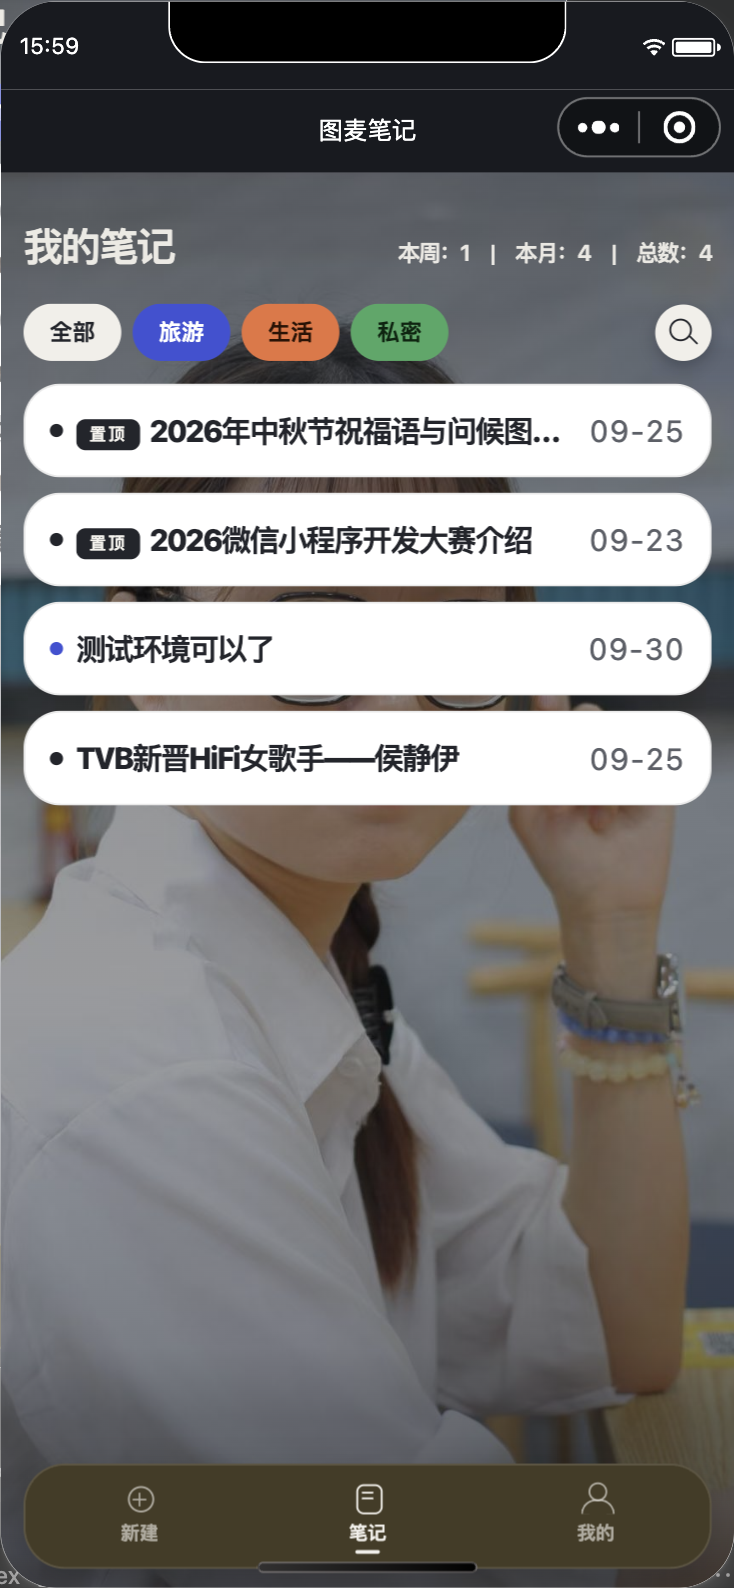
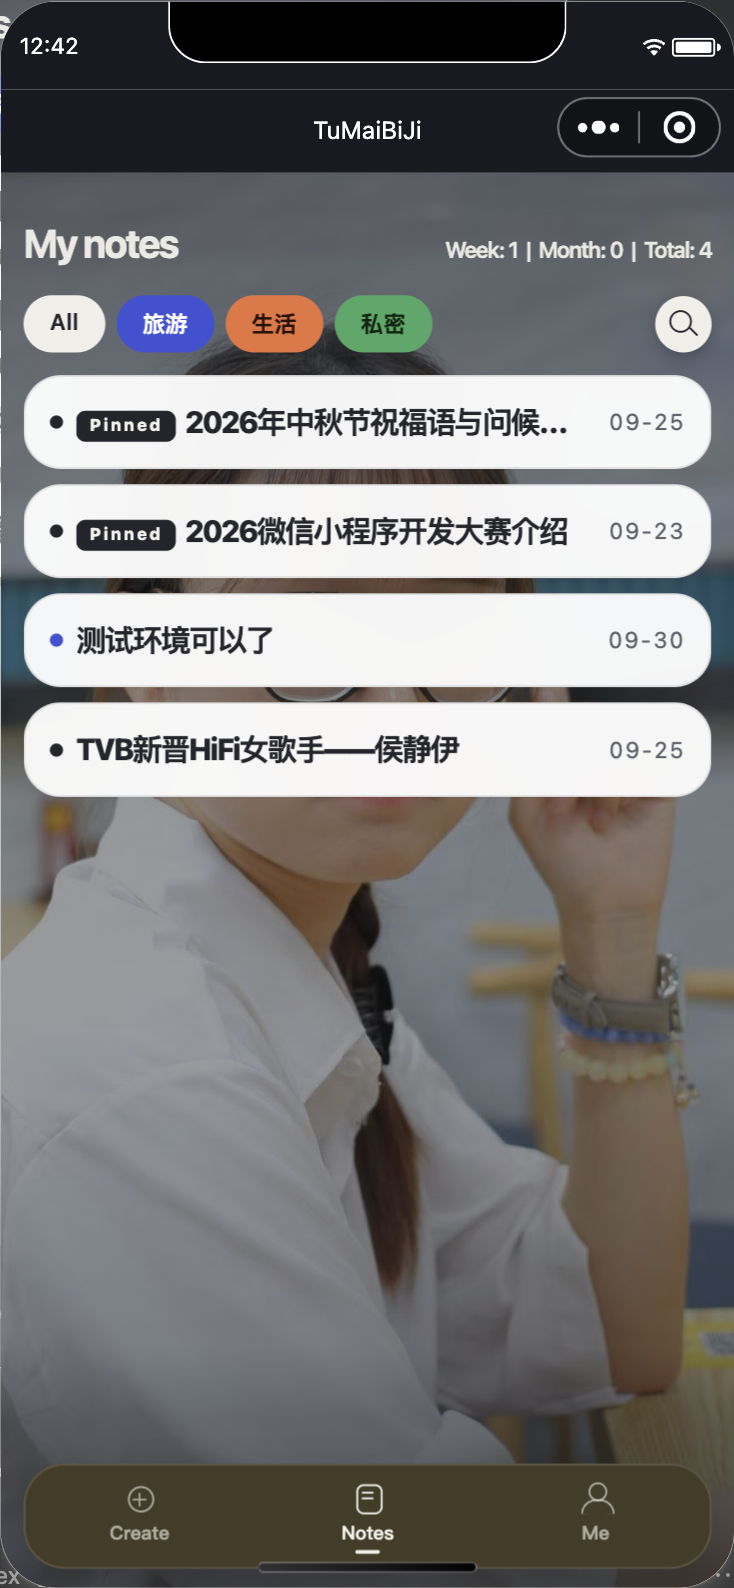
1.9.4：首页三处照真截图改（统计行糊字、日期字号、横条毛玻璃）+ 笔记卡片接微信图片分享面板
统计行英文糊在一起不是重叠，是空白折叠：模拟器里两个半角空格照算宽度（133.2px 与整串同宽，
去掉空格是 117.7px），真机把连串半角空格折成一个。英文那档分隔符换成不换行空格 U+00A0，
中文仍用全角空格一字未动。

日期原来根本没写字号，从容器一路继承到默认 16px≈31rpx，和标题同字号 → 收进 --fs-meta（实测 12 vs 16px）。
横条毛玻璃：各主题块新增 --bg-card-glass（= 本主题 --bg-card 退到 95%），只在铺图那一态
读它并加 backdrop-filter: blur(20px)。

「保存到相册」改成「保存并分享」：主路径只打 wx.showShareImageMenu({path})（官方类型定义：
基础库 2.14.3；path 要本地/临时路径，我们的正是 canvasToTempFilePath 回的 tempFilePath；
3.8.2 起支持朋友圈分享，那条不支持二维码但支持小程序码），打不开才退回原来的存相册那条路，
兜底整块留在 _saveToAlbum()。分享海报页那枚没动。

尺子：验-列表D2-真跑.js 加 9 条（两档主题的玻璃/字号 + 中英统计行），新增 tokenOf 从 app.wxss 现读令牌；
验-详情浮窗两层-真跑.js 加「取消|保存并分享」与主路径/兜底两条源码级判据，并跟 我的页那把一样
开跑前把语言钉成 zh（热启动那把真登录会把测试号的 en 带进来，造成凭空红）。
版本 1.9.4 已传后台开发版本（477.4 KB），预览码 docs/预览码-1.9.4-真机.png，未提审。

diff --git a/docs/工具/验-列表D2-真跑.js b/docs/工具/验-列表D2-真跑.js
@@ -18,6 +18,7 @@ const path = require('path')
 const sleep = (ms) => new Promise((r) => setTimeout(r, ms))
 const OUT = path.resolve(__dirname, '../design/笔记列表-D2优化/实测')
 const p = require(path.resolve(__dirname, '../../miniprogram/utils/palette.js'))
+const i18n = require(path.resolve(__dirname, '../../miniprogram/utils/i18n.js'))
 const APP_WXSS = fs.readFileSync(path.resolve(__dirname, '../../miniprogram/app.wxss'), 'utf8')
 const BAR_WXSS = fs.readFileSync(path.resolve(__dirname, '../../miniprogram/custom-tab-bar/index.wxss'), 'utf8')
 
@@ -46,6 +47,12 @@ const secondaryOf = (w) => {
   // 十六进制和 rgba 两种写法都要认：淡雅那两枚的 --text-secondary 是
   // `rgba(27, 42, 33, 0.66)`，原来这里只匹配 #rrggbb，拿到天青就 null[1] 崩掉。
   return (/--text-secondary:\s*(#[0-9A-Fa-f]{6}|rgba?\([^)]*\))/.exec(m[1]) || [])[1] || ''
+}
+// 同一个读法管所有令牌：横条那一层毛玻璃的 --bg-card-glass 也从各主题块里现读，
+// 探针不抄第二份表（改了主题忘了改判据，就是上一把 .sc-card 那条假绿的路子）。
+const tokenOf = (w, name) => {
+  const m = new RegExp(`\\.${p.themeOf(w).cls}\\s*\\{([\\s\\S]*?)\\}`).exec(APP_WXSS)
+  return (new RegExp(`--${name}:\\s*(#[0-9A-Fa-f]{6}|rgba?\\([^)]*\\))`).exec(m[1]) || [])[1] || ''
 }
 // 计算样式回的是 rgb()/rgba()，源码里可能是 #hex 也可能是 rgba()——两边都拆成三个数再比
 const anyRgb = (v) => (/^#/.test(String(v)) ? hexArr(v) : rgbOf(v))
@@ -147,6 +154,20 @@ const sampleBar = (png) => JSON.parse(execFileSync('python3',
         : near(rgbOf(dotBg), hexArr(want0.dot), 2))
     ck(`${label}：那枚点渲染对了（${want0.ring ? '空心环：透明底 + 描边取字色' : '实心：点色 ' + want0.dot}）且 14rpx 见方`,
       dotOk, `${dotBg} / ${ds && ds.width}x${ds && ds.height}`)
+
+    // ---------- ②a 横条那一层毛玻璃 + 日期字号（站长 10-01 两条） ----------
+    // 这一组必须在收起态量：展开那一行也吃同一条背景规则，但脚注里另有一枚 .dt。
+    const rowBg = await styleOf(page, '.note-row', 'background-color')
+    const wantGlass = tokenOf(w, 'bg-card-glass')
+    ck(`${label}：横条底色 = 本主题 --bg-card-glass（95% 那一档，不再是实色卡底）`,
+      near(rgbOf(rowBg), anyRgb(wantGlass), 2), `${rowBg} vs ${wantGlass}`)
+    const glassEl = await page.$('.note-row')
+    const bf = glassEl && await glassEl.style('backdrop-filter')
+    ck(`${label}：横条真挂了背景模糊（只调透明度不叫毛玻璃）`, /blur\(/.test(String(bf)), String(bf))
+    const dtPx = parseFloat(await styleOf(page, '.note-row .dt', 'font-size'))
+    const tiPx = parseFloat(await styleOf(page, '.note-row .row-title', 'font-size'))
+    ck(`${label}：日期比标题小一档（收进 --fs-meta 24rpx，原来它跟标题同为 16px≈31rpx）`,
+      Math.abs(dtPx - 24 * R) <= 0.8 && dtPx < tiPx, `日期 ${dtPx}px / 标题 ${tiPx}px（24rpx=${(24 * R).toFixed(1)}px）`)
     // ---------- ②b／③ 分类名和 meta 行只在展开那一行里有 ----------
     // v4 起收起行只剩「点＋标题＋日期」：原来这两条拿收起行的 .cat 量宽度，量到的是那枚 7px 的点；
     // .row-foot 在收起态整个不渲染，styleOf 读到 null，再被 "null === null" 判成"整行同色"——假绿。
@@ -201,6 +222,37 @@ const sampleBar = (png) => JSON.parse(execFileSync('python3',
       && Math.abs((s.image_rpx[1] - b[3]) - 20) <= 8,
       b && `左 ${b[0]} 右 ${b[2]} 离底 ${Math.round(s.image_rpx[1] - b[3])}（高 ${Math.round(b[3] - b[1])} 只作记录）`)
   }
+
+  // ---------- 页头那三个数：分隔符得是"折不掉"的那种空格 ----------
+  // 10-01 站长真截图：英文那档三段糊成 "Week: 1|Month: 0|Total: 4"。模拟器里两个半角空格
+  // 是照算宽度的（实测双空格串与整串同宽 133.2px、无空格版 117.7px），真机却把它折成一个——
+  // 所以这条判据钉不了"屏幕上开不开"，只能钉送进渲染器的那串字用的是 U+00A0：它不参与空白折叠。
+  const langBefore = await mp.evaluate(() => getApp().globalData.userInfo?.language || 'zh')
+  for (const [lg, sep, name] of [['zh', '　|　', '中文'], ['en', '\u00A0\u00A0|\u00A0\u00A0', '英文']]) {
+    await mp.evaluate((l) => {
+      const a = getApp()
+      a.globalData.userInfo = Object.assign({}, a.globalData.userInfo, { language: l })
+    }, lg)
+    const sp = await enter('/pages/index/index')
+    await sleep(4500)
+    const sd = await sp.data()
+    const txt = String(sd.statsText || '')
+    ck(`${name}那三个数：分隔符是折不掉的那一档（${name === '英文' ? 'U+00A0' : '全角空格'}）`,
+      txt.includes(sep), JSON.stringify(txt))
+    ck(`${name}那三个数：三段都还在（换分隔符没把谁吃掉）`,
+      ['statWeek', 'statMonth', 'statTotal'].every((k) => txt.includes(i18n.t(k, lg))), txt)
+    const sm = await mp.evaluate(() => new Promise((res) => {
+      wx.createSelectorQuery().select('.page-stats').boundingClientRect()
+        .select('.page-title').boundingClientRect().exec((r) => res({ stats: r[0], title: r[1] }))
+    }))
+    ck(`${name}那三个数：没顶到标题底下去（两块横向不相交）`,
+      !!sm.stats && !!sm.title && sm.stats.left >= sm.title.right - 1,
+      sm.stats && `数块左沿 ${sm.stats.left.toFixed(1)} / 标题右沿 ${sm.title.right.toFixed(1)}`)
+  }
+  await mp.evaluate((l) => {
+    const a = getApp()
+    a.globalData.userInfo = Object.assign({}, a.globalData.userInfo, { language: l })
+  }, langBefore)
 
   // 还原：这一台模拟器原来用哪枚壁纸，量完还回去
   await mp.evaluate((raw) => {

diff --git a/docs/工具/验-详情浮窗两层-真跑.js b/docs/工具/验-详情浮窗两层-真跑.js
@@ -24,6 +24,14 @@ const tx = async (el) => (el ? await el.text() : '（元素不存在）')
 ;(async () => {
   if (!fs.existsSync(OUT)) fs.mkdirSync(OUT, { recursive: true })
   const mp = await automator.connect({ wsEndpoint: 'ws://localhost:9431' })
+  // 这一把通篇钉的是中文串（「生成笔记卡片」「取消」），而这个字段是登录时从服务端带回来的：
+  // 上一把尺子（验-热启动归因.js）真登录过一次，测试号在服务端存的是 en，这里就会凭空红一片。
+  // 所以开跑前钉成 zh、收尾还回去——和 验-我的页改版-真跑.js 同一个处理。
+  const langBefore = await mp.evaluate(() => getApp().globalData.userInfo?.language || 'zh')
+  await mp.evaluate(() => {
+    const a = getApp()
+    a.globalData.userInfo = Object.assign({}, a.globalData.userInfo, { language: 'zh' })
+  })
   try {
     await sleep(2000)
     await mp.switchTab('/pages/index/index')
@@ -98,6 +106,24 @@ const tx = async (el) => (el ? await el.text() : '（元素不存在）')
     ck('弹窗里没有详情窗的 dock', !(await page.$('.ds-dock')))
     ck('弹窗 dock 有二维码开关', !!(await page.$('.tpl-qr')))
     ck('开关默认开着', d.noQr === false)
+    // 10-01 站长：账号认证下来了，这枚主操作从"存进相册"换成弹微信的图片分享面板
+    //（发送给朋友 / 朋友圈 / 收藏 / 保存图片 / 转发为贴图五枚都在里面），所以文案不能再只说存相册。
+    const tplBtns = []
+    for (const b of await page.$$('.tpl-btn')) tplBtns.push(await b.text())
+    ck('主操作那枚叫「保存并分享」（左那枚仍是取消）', tplBtns.join('|') === '取消|保存并分享', tplBtns.join('|'))
+    const menuApi = await mp.evaluate(() => typeof wx.showShareImageMenu)
+    ck('这一档环境里有微信图片分享面板这个 API（真机上那五枚才是它给的）',
+      menuApi === 'function', `typeof=${menuApi}`)
+    // 页面方法在逻辑层是代理过的原生函数，String(fn) 只能拿到 [native code]，读不到实现；
+    // 所以这一条从源码读：主路径必须只打面板，存相册那一枪只能出现在兜底那个函数里。
+    const IDX_JS = fs.readFileSync(path.resolve(__dirname, '../../miniprogram/pages/index/index.js'), 'utf8')
+    const grab = (name) => (new RegExp(`${name}\\(\\)\\s*\\{([\\s\\S]*?)\\n  \\}`).exec(IDX_JS) || [])[1] || ''
+    const main = grab('onSavePoster'), fb = grab('_saveToAlbum')
+    ck('主路径只打图片分享面板（wx.showShareImageMenu），不再自己往相册里塞',
+      /wx\.showShareImageMenu\(/.test(main) && !/saveImageToPhotosAlbum/.test(main),
+      `onSavePoster 里 showShareImageMenu=${/showShareImageMenu/.test(main)} 直接存相册=${/saveImageToPhotosAlbum/.test(main)}`)
+    ck('面板打不开时才退回存相册（兜底那条路还在）',
+      /wx\.saveImageToPhotosAlbum\(/.test(fb) && /this\._saveToAlbum\(\)/.test(main), `兜底函数 ${fb.length} 字符`)
     await mp.screenshot({ path: path.join(OUT, '04-模板弹窗.png') })
 
     /* ---------- 关码 → 整张重画 ---------- */
@@ -176,6 +202,10 @@ const tx = async (el) => (el ? await el.text() : '（元素不存在）')
     console.log(`\n${bad.length ? '未通过 ' + bad.length + ' 条：' + bad.join(' / ') : '全部通过'}（截图 → ${OUT}）`)
     process.exitCode = bad.length ? 1 : 0
   } finally {
+    await mp.evaluate((l) => {
+      const a = getApp()
+      a.globalData.userInfo = Object.assign({}, a.globalData.userInfo, { language: l })
+    }, langBefore)
     await mp.disconnect()
   }
 })().catch((e) => { console.error('脚本崩了', e); process.exit(2) })

diff --git a/miniprogram/pages/index/index.js b/miniprogram/pages/index/index.js
@@ -146,10 +146,12 @@ Page({
       })
       const total = all.length >= STATS_LIMIT ? `${STATS_LIMIT}+` : all.length
       // 分隔符两侧各留一个全角空格：半角空格在这行字号下几乎看不出来，三段会糊成一串数字。
-      // 英文那一档没有全角标点的位置，照抄会让 "Week：3" 这种半中半英的写法出现在英文界面上，
-      // 所以标点单独按语言取一份，中文那一版一字未动。
+      // 英文那一档没有全角标点的位置，照抄会让 "Week：3" 这种半中半英的写法出现在英文界面上。
+      // 10-01 站长真截图：英文那三个半角空格在真机上被折成一个、几乎看不见（"Week: 1|Month"），
+      // 模拟器里却是好的——所以这一档改用不换行空格 U+00A0，它不参与空白折叠，两端渲染一致。
       const colon = lang === 'zh' ? '：' : ': '
-      const gap = lang === 'zh' ? '　|　' : '  |  '
+      const NB = ' '
+      const gap = lang === 'zh' ? '　|　' : `${NB}${NB}|${NB}${NB}`
       this.setData({
         statsText: [
           `${t('statWeek', lang)}${colon}${week}`,
@@ -633,7 +635,24 @@ Page({
   onCancelTemplate() { this._closeTemplate() },
   onHandleTap() { this._closeTemplate() },
 
+  // 站长 10-01：账号认证下来了，图片分享能力可以接。这枚按钮从"存进相册"换成弹微信那个
+  // 五枚一排的图片面板（发送给朋友 / 分享到朋友圈 / 收藏 / 保存图片 / 转发为贴图），存和发一次给完。
+  // 这个面板只在真机有——开发者工具里一定 fail，所以那条路退回"直接存相册"，不让人白点一次。
   onSavePoster() {
+    const path = this.data.posterImagePath
+    if (!path) return
+    wx.showShareImageMenu({
+      path,
+      success: () => this._closeTemplate(),
+      fail: (err) => {
+        const msg = (err && err.errMsg) || ''
+        if (msg.indexOf('cancel') >= 0) return
+        this._saveToAlbum()
+      },
+    })
+  },
+
+  _saveToAlbum() {
     if (!this.data.posterImagePath) return
     const { lang } = this.data
     wx.saveImageToPhotosAlbum({

diff --git a/miniprogram/utils/i18n.js b/miniprogram/utils/i18n.js
@@ -231,6 +231,9 @@ const i18n = {
     generatingShare: '生成分享图...',
     generateFailed: '生成失败',
     saveToAlbum: '保存到相册',
+    // 「生成笔记卡片」那枚主操作按的是微信的图片分享面板（发送给朋友 / 朋友圈 / 收藏 / 保存图片
+    // 五枚都在里面），保存只是面板的一项，所以按钮不能再叫"保存到相册"。
+    saveAndShare: '保存并分享',
     savedToAlbum: '已保存到相册',
     needAlbumPermission: '需要相册权限',
     permissionHint: '请在设置中允许访问相册',
@@ -491,6 +494,7 @@ const i18n = {
     generatingShare: 'Generating share image...',
     generateFailed: 'Generate failed',
     saveToAlbum: 'Save to album',
+    saveAndShare: 'Save & share',
     savedToAlbum: 'Saved to album',
     needAlbumPermission: 'Album permission required',
     permissionHint: 'Please allow album access in settings',

diff --git a/miniprogram/utils/appInfo.js b/miniprogram/utils/appInfo.js
@@ -2,7 +2,7 @@
  *  以前版本号只写在 pages/about/about.js 里，「我的」这一版要把关于收进本页，
  *  两处各写一份迟早走样（这个号已经踩过三次"上传完才想起来改"），所以挪到这里，
  *  两边都读这一份，`验-关于页版本号.js` 也直接读这里当期望值。 */
-const VERSION = '1.9.3'
+const VERSION = '1.9.4'
 
 // 官网地址以站点自己的 canonical 为准（curl 读到的 <link rel=canonical> 是不带 www 的那个）。
 // 只能复制、点不开：web-view 组件个人主体用不了，小程序里打不开外部网页。
